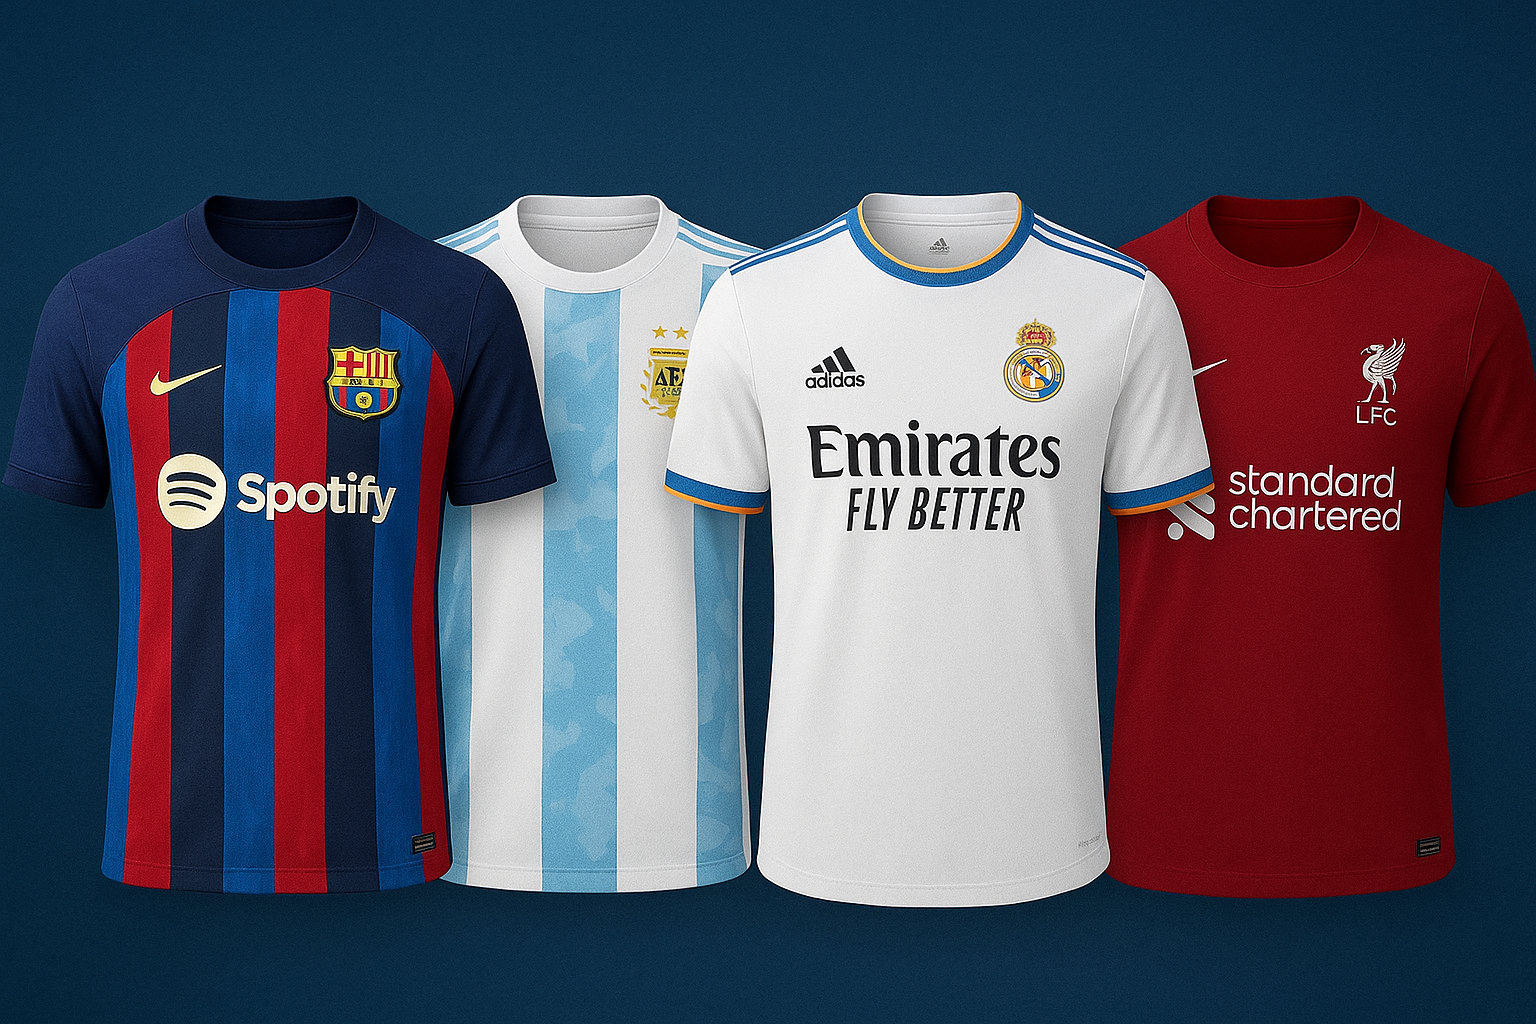
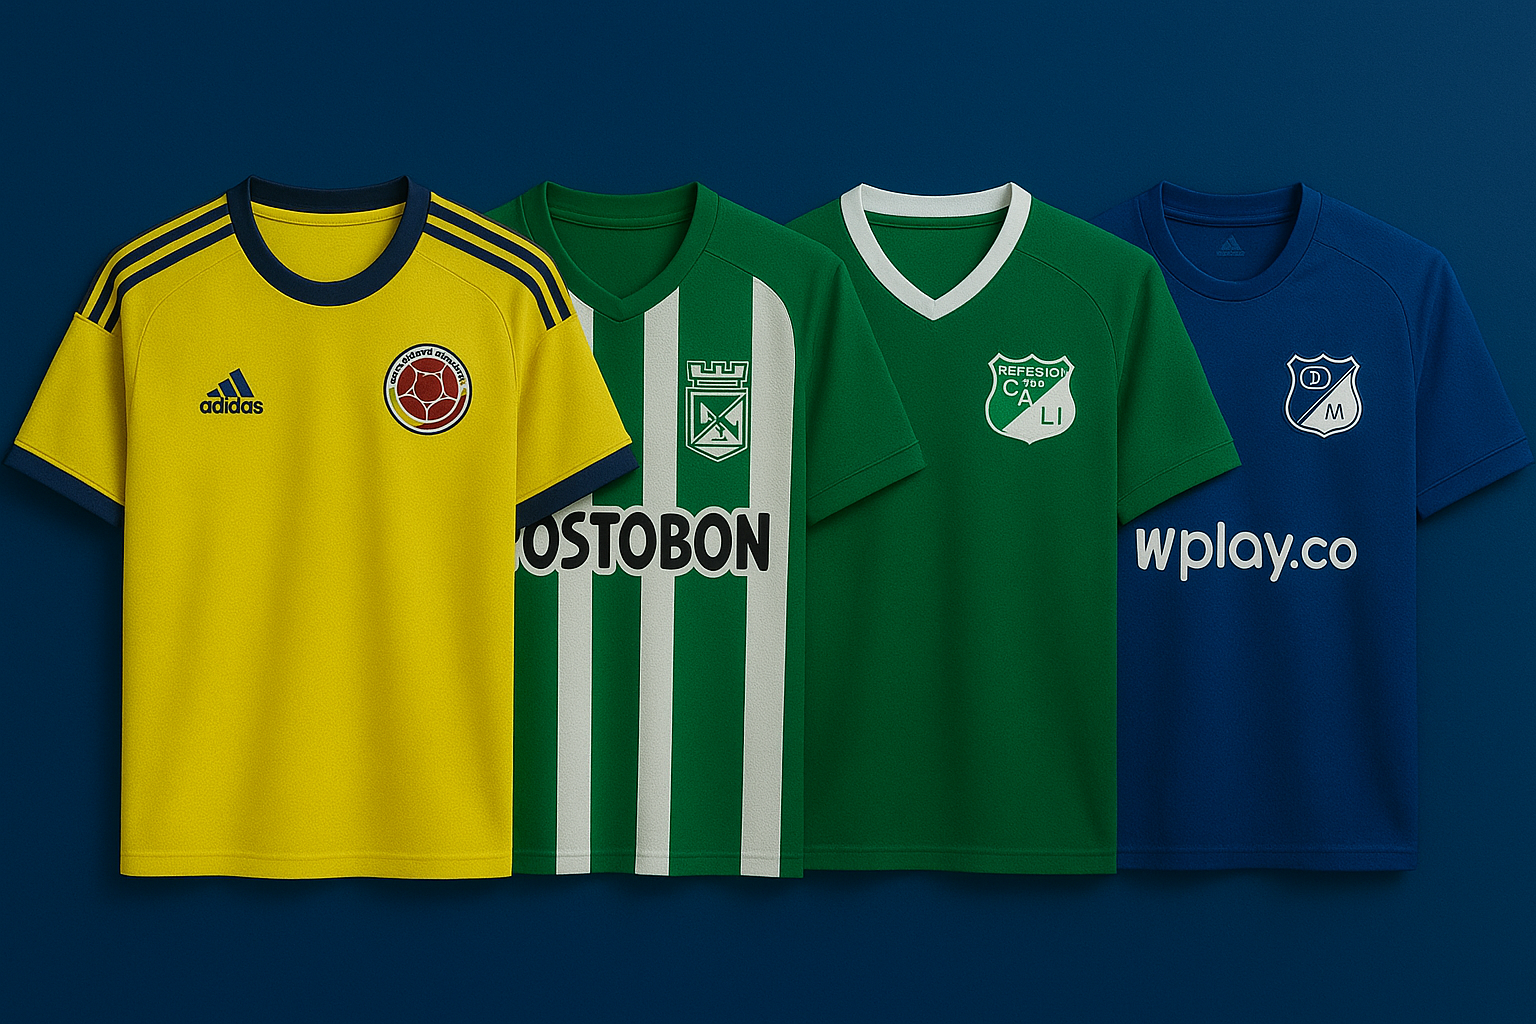
hero section creaded

diff --git a/index.html b/index.html
@@ -4,8 +4,81 @@
     <meta charset="UTF-8">
     <meta name="viewport" content="width=device-width, initial-scale=1.0">
     <title>La Camiseta FC</title>
+    <link href="https://cdn.jsdelivr.net/npm/bootstrap@5.3.8/dist/css/bootstrap.min.css" rel="stylesheet" integrity="sha384-sRIl4kxILFvY47J16cr9ZwB07vP4J8+LH7qKQnuqkuIAvNWLzeN8tE5YBujZqJLB" crossorigin="anonymous">
+    <link rel="stylesheet" href="css/styles.css">
 </head>
 <body>
     
+    
+    
+    
+    
+    
+    
+    
+    
+    
+    
+    
+    
+    
+    
+    
+    
+    
+    
+    
+    
+    
+    <!-- Hero -->
+    <section>
+        <div class="container-xl">
+            <div id="indicadores" class="carousel slide carousel-fade" data-bs-ride="carousel">
+                <div class="carousel-indicators">
+                    <button class="active" type="button" data-bs-target="#indicadores" data-bs-slide-to="0"></button>
+                    <button type="button" data-bs-target="#indicadores" data-bs-slide-to="1"></button>
+                    <button type="button" data-bs-target="#indicadores" data-bs-slide-to="2"></button>
+                    <button type="button" data-bs-target="#indicadores" data-bs-slide-to="3"></button>
+                </div>
+                
+                <div class="carousel-inner">
+                    <div class="carousel-item active">
+                        <img src="img/imagen01.png" alt="slide 1" class="d-block w-100">
+                        <div class="carousel-caption d-none d-md-block">
+                            <h5>La Camiseta FC</h5>
+                        </div>
+                    </div>
+                    <div class="carousel-item">
+                        <img src="img/imagen02.png" alt="slide 2" class="d-block w-100">
+                        <div class="carousel-caption d-none d-md-block">
+                            <h5>Clubes Liga Local</h5>
+                        </div>
+                    </div>
+                    <div class="carousel-item">
+                        <img src="img/imagen03.png" alt="slide 3" class="d-block w-100">
+                        <div class="carousel-caption d-none d-md-block">
+                            <h5>Selecciones de Europa</h5>
+                        </div>
+                    </div>
+                    <div class="carousel-item">
+                        <img src="img/imagen04.png" alt="slide 4" class="d-block w-100">
+                        <div class="carousel-caption d-none d-md-block">
+                            <h5>Internacional</h5>
+                        </div>
+                    </div>
+            
+                    <button type="button" class="carousel-control-prev" data-bs-slide="prev" data-bs-target="#indicadores">
+                    <span class="carousel-control-prev-icon"></span>
+                    </button>
+                    <button type="button" class="carousel-control-next" data-bs-slide="next" data-bs-target="#indicadores">
+                    <span class="carousel-control-next-icon"></span>
+                    </button>
+                </div>
+            </div>
+        </div>
+    </section>
+
+
+<script src="https://cdn.jsdelivr.net/npm/bootstrap@5.3.8/dist/js/bootstrap.bundle.min.js" integrity="sha384-FKyoEForCGlyvwx9Hj09JcYn3nv7wiPVlz7YYwJrWVcXK/BmnVDxM+D2scQbITxI" crossorigin="anonymous"></script>
 </body>
 </html>
